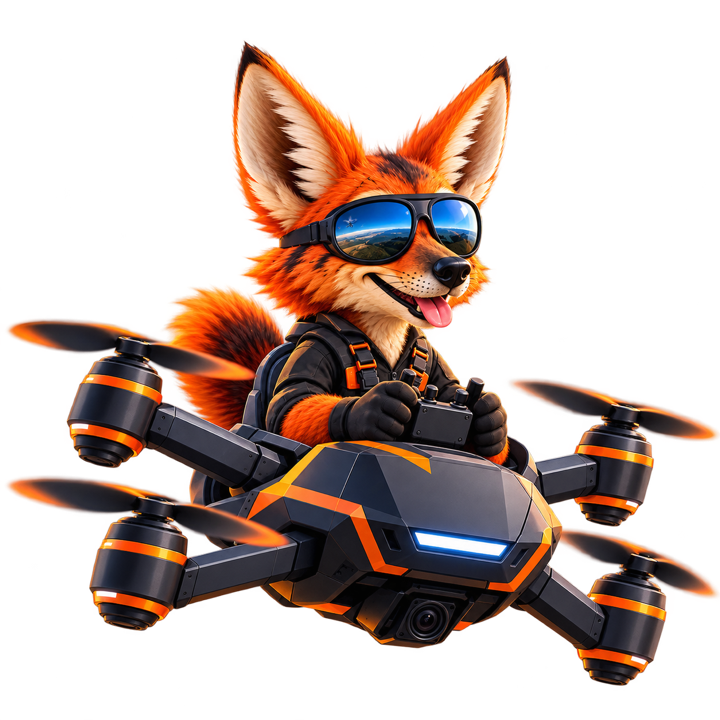
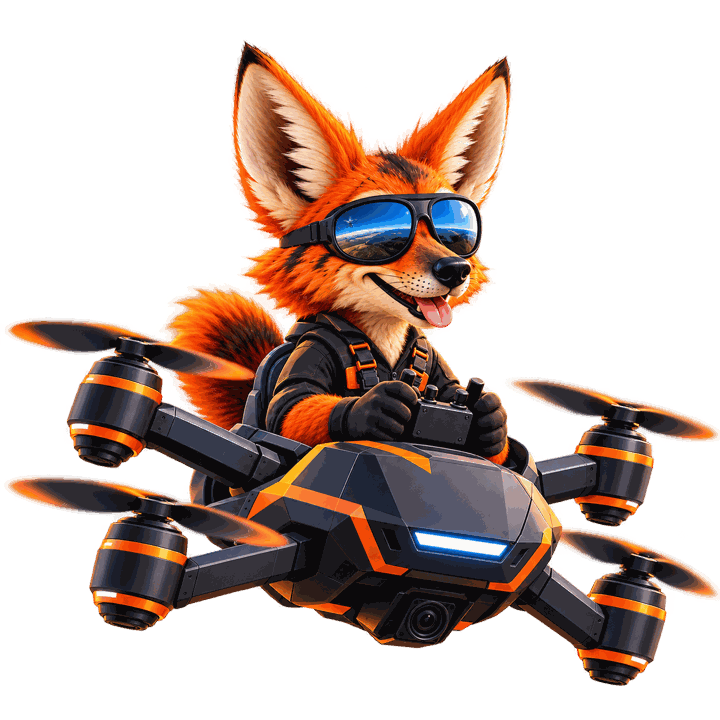
perf(assets): size the mascots for the web
The README hero renders at 460 px and weighed 1.8 MB, pulled before the first
sentence of the page. Stored at 920 px for a 2x display and quantised to a
256-colour palette with dithering: the pair goes from 2.3 MB to 227 KB with no
visible loss. The full-resolution originals stay reachable in the history, and
docs/assets/README.md says how to get them.

diff --git a/docs/assets/README.md b/docs/assets/README.md
@@ -5,6 +5,22 @@
 | `guara-mascot.png` | README header, talks, slides | Two domains in one image: the guará fox flying a multirotor (thread A, PX4 + ROS 2) and the same fox operating a satellite (threads B and C, F´). |
 | `guara-mascot-air.png` | Air-thread material only | The original single-domain mascot, kept for documents that are strictly about the PX4 work. |
 
+## Sizes, and where the full-resolution originals are
+
+Both files are web-sized: the hero renders at 460 px in the README, so it is stored at 920 px
+for a 2× display, quantised to a 256-colour palette with dithering. That took the pair from
+2.3 MB to 227 KB with no visible loss — a README visitor was pulling 1.8 MB before the first
+sentence.
+
+The full-resolution originals (1672 × 941 and 720 × 720, full RGBA) are in the git history at
+`1acf292` and earlier:
+
+```bash
+git show 1acf292:docs/assets/guara-mascot.png > guara-mascot-full.png
+```
+
+Use those for print, talks and slides; use the files here for anything rendered on the web.
+
 Both images are illustrations commissioned for this project, released with the repository under
 the Apache License, Version 2.0 (see `NOTICE`). They depict a guará
 (*Chrysocyon brachyurus*, the maned wolf), the animal the project is named after; they are
